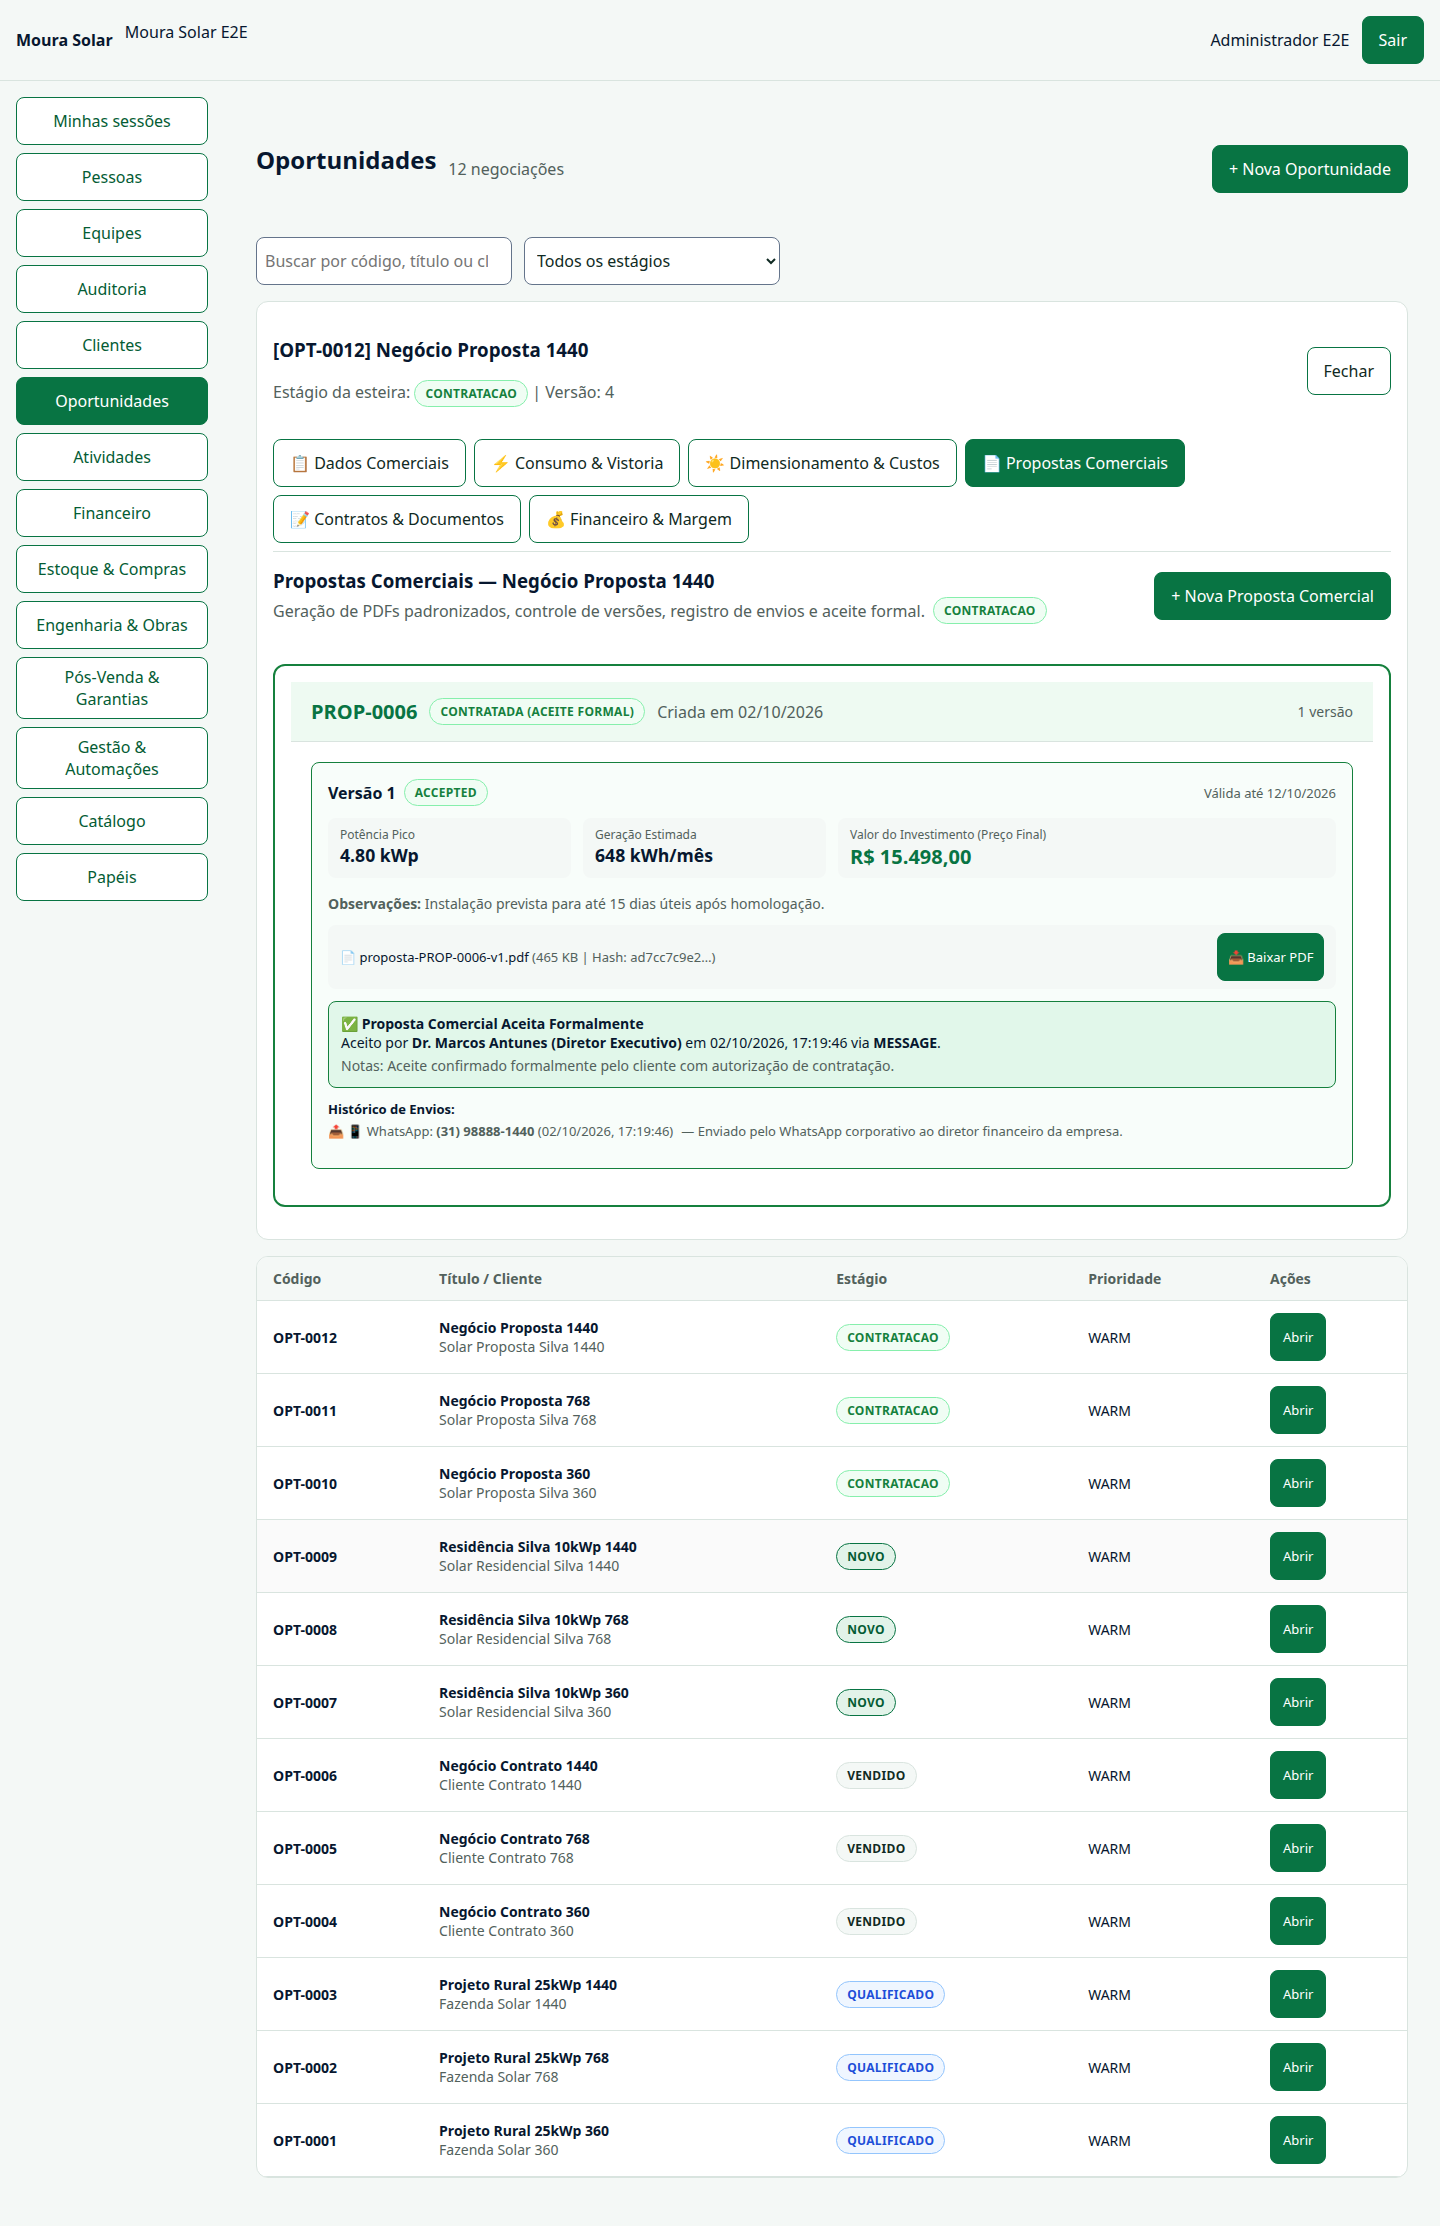
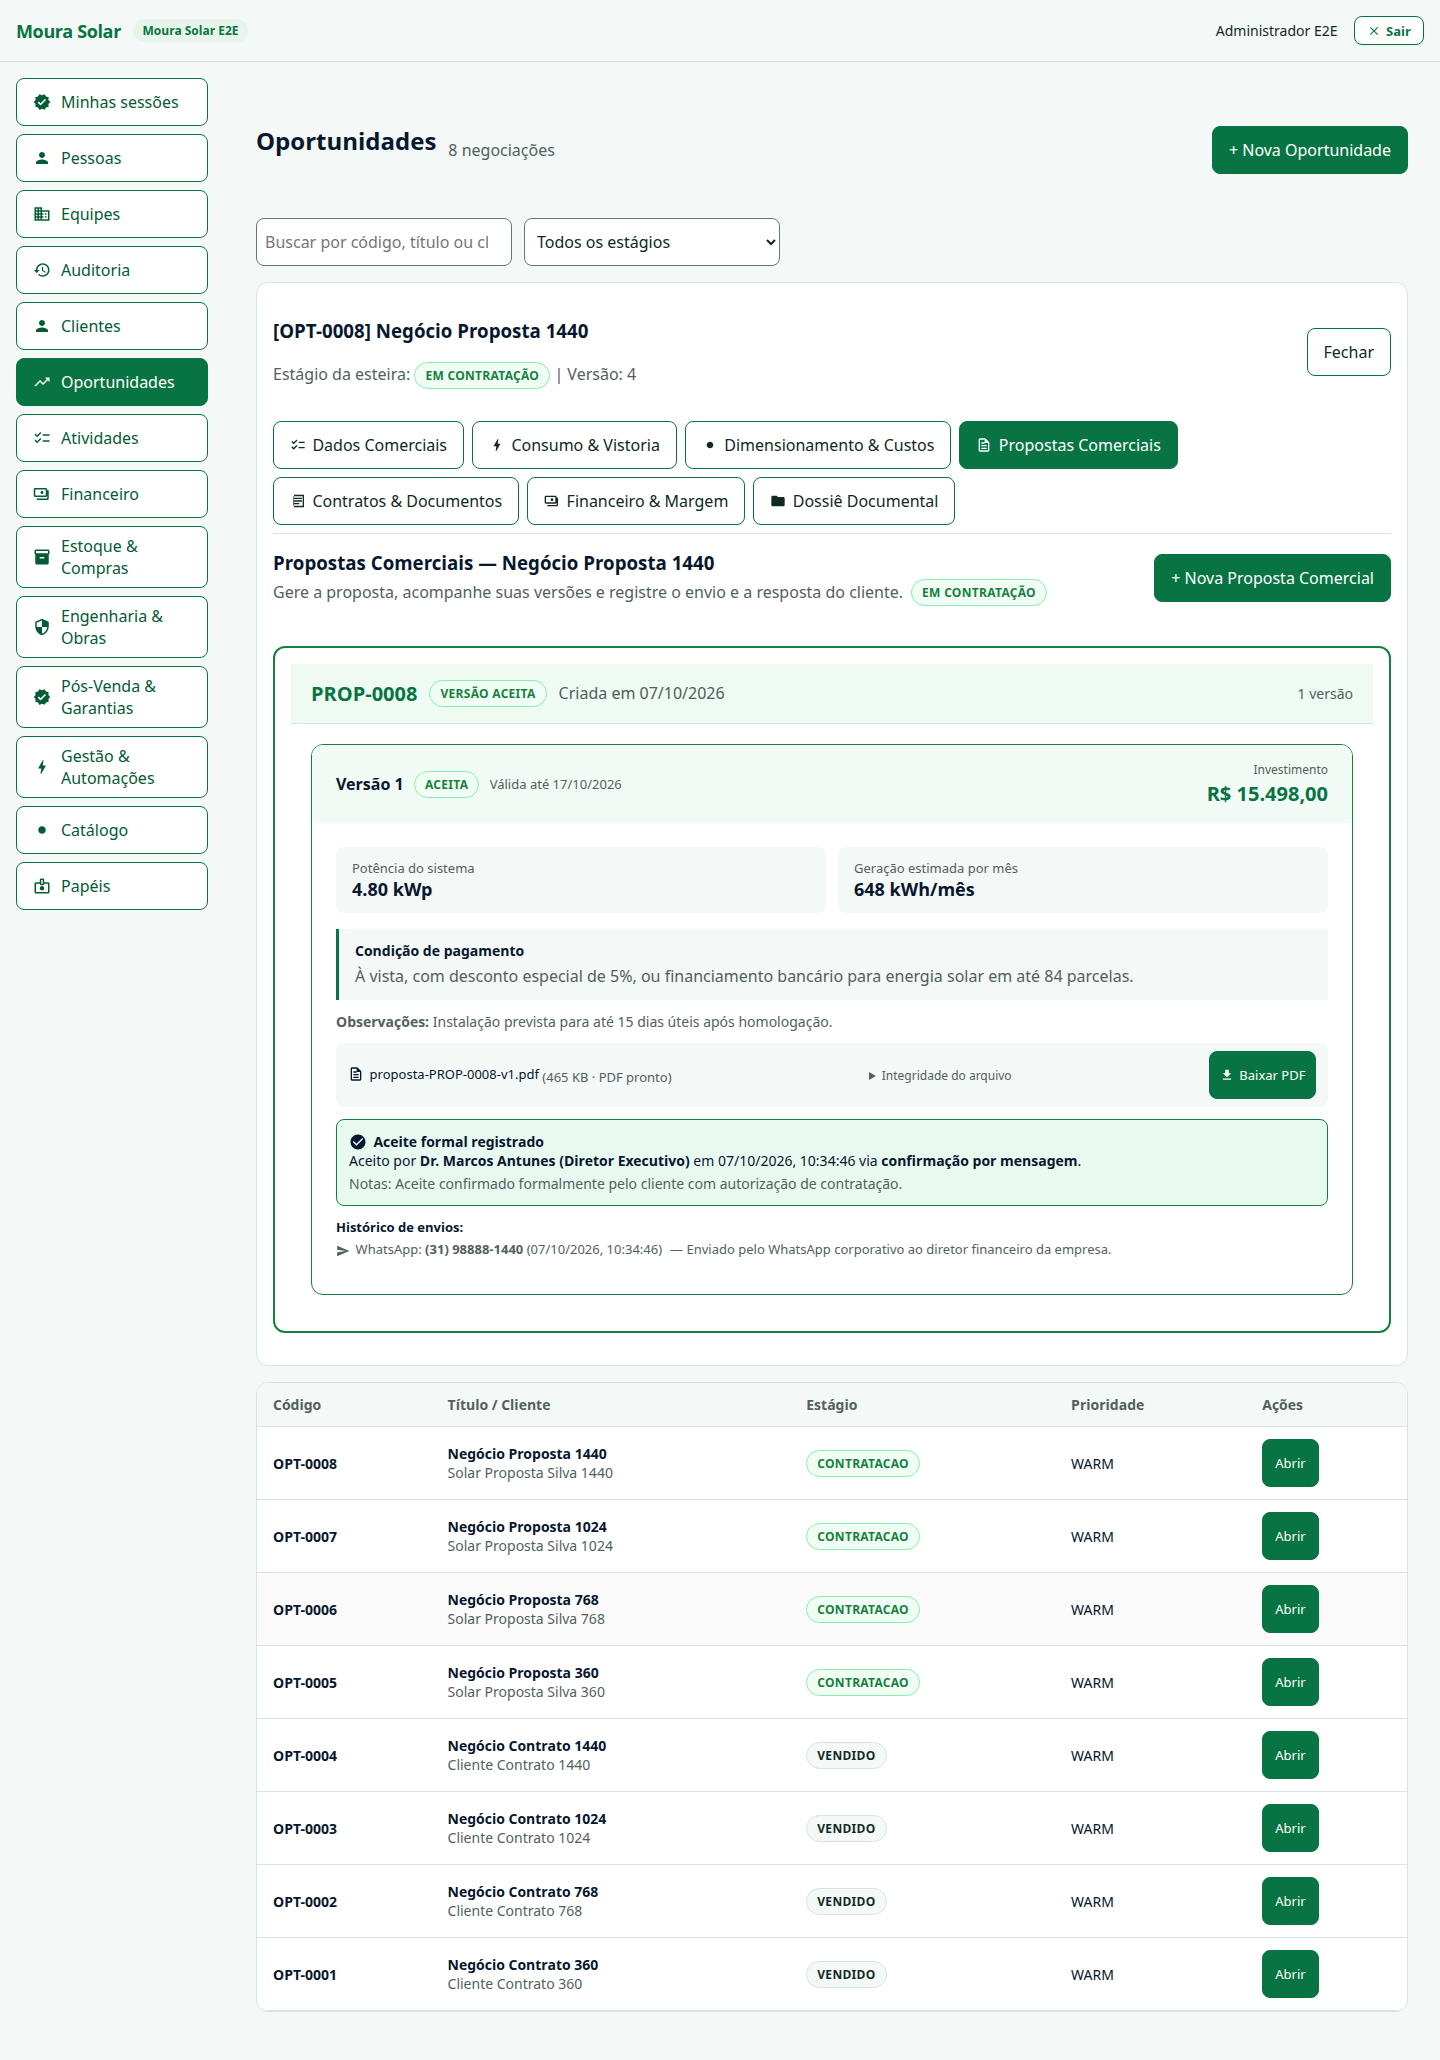
docs(proposals): record localized visual evidence

diff --git a/docs/evidencias/m4/README.md b/docs/evidencias/m4/README.md
@@ -8,12 +8,12 @@ Validação local em Node 22.22.1, pnpm 11.25.0 e PostgreSQL 17 isolado.
 | Unitários API                    | 8 testes no motor de PDF e governança de ciclo de vida (`proposal.spec.ts`)                              |
 | `tests/proposal.integration.mjs` | 5 cenários HTTP/PostgreSQL completos de ciclo de vida, integridade de PDF e transições de esteira        |
 | `pnpm test:migrations`           | Upgrade sequencial M0 → M1 → M2 → M3 → M4 preserva integridade; reaplicação idempotente aprovada         |
-| `tests/e2e/proposal.spec.ts`     | 2 jornadas E2E completas aprovadas no Playwright (viewports 360px e 1440px)                              |
+| `tests/e2e/proposal.spec.ts`     | 4 jornadas E2E completas aprovadas no Playwright (viewports 360, 768, 1024 e 1440 px)                    |
 | Sigilo de Custos                 | Proibição estrita: custos internos, markup e margem bruta omitidos do PDF do cliente (SPEC-006 item 3)   |
 | Preservação de Dados             | Mascaramento de CPF/CNPJ de acordo com a LGPD nos documentos públicos                                    |
 | Gate B & Follow-up               | Transição automática para `PROPOSTA_APRESENTADA` no envio com agendamento de follow-up em 48h            |
 | Aceite & Contratação             | Transição automática para `CONTRATACAO` no aceite formal; bloqueio estrito contra novo aceite (HTTP 409) |
-| Responsividade Total             | Zero overflow horizontal em 360px (mobile) e 1440px (desktop), cards e ações responsivas                 |
+| Responsividade Total             | Zero overflow horizontal em 360, 768, 1024 e 1440 px, cards e ações responsivas                          |
 
 ## Jornadas e Cenários Validados
 
@@ -44,11 +44,19 @@ Validação local em Node 22.22.1, pnpm 11.25.0 e PostgreSQL 17 isolado.
    - Avanço automático da oportunidade para o estágio `CONTRATACAO`, gerando atividade de formalização contratual.
    - **Regra de Unicidade de Aceite (SPEC-006 item 19):** Tentativa subsequente de registrar aceite na mesma oportunidade é rejeitada com HTTP 409 Conflict.
 
-5. **Jornada Ponta a Ponta Playwright (360px e 1440px):**
+5. **Jornada Ponta a Ponta Playwright (360, 768, 1024 e 1440 px):**
    - Execução do fluxo completo: autenticação do operador comercial, criação de cliente e oportunidade, unidade consumidora, vistoria técnica, sugestão automatizada de dimensionamento, aprovação da versão técnica, geração da proposta comercial com PDF, envio via WhatsApp, verificação de avanço para `PROPOSTA_APRESENTADA` e registro de aceite formal com avanço para `CONTRATACAO`.
-   - Validação de adaptabilidade visual e ausência de scroll horizontal nos dois viewports oficiais do projeto.
+   - Validação de adaptabilidade visual e ausência de scroll horizontal nos quatro viewports testados.
+
+## Revalidação da apresentação em português — 07/10/2026
+
+- `pnpm check` aprovado; 5 cenários de integração da proposta e 8 jornadas E2E de proposta e contrato aprovados.
+- Resumo comercial, versões, ações, estados, condições de pagamento e PDF apresentam rótulos em português. As versões anteriores ficam recolhidas para facilitar a leitura da proposta atual.
+- As capturas abaixo mostram a proposta aceita em quatro larguras. A navegação e os campos ao redor pertencem à tela de oportunidades.
 
 ## Capturas representativas
 
 - [Proposta Comercial, PDF, Envio e Aceite Formal — 360 px (Mobile)](proposta-360.png)
+- [Proposta Comercial, PDF, Envio e Aceite Formal — 768 px (Tablet)](proposta-768.png)
+- [Proposta Comercial, PDF, Envio e Aceite Formal — 1024 px (Notebook)](proposta-1024.png)
 - [Proposta Comercial, PDF, Envio e Aceite Formal — 1440 px (Desktop)](proposta-1440.png)
